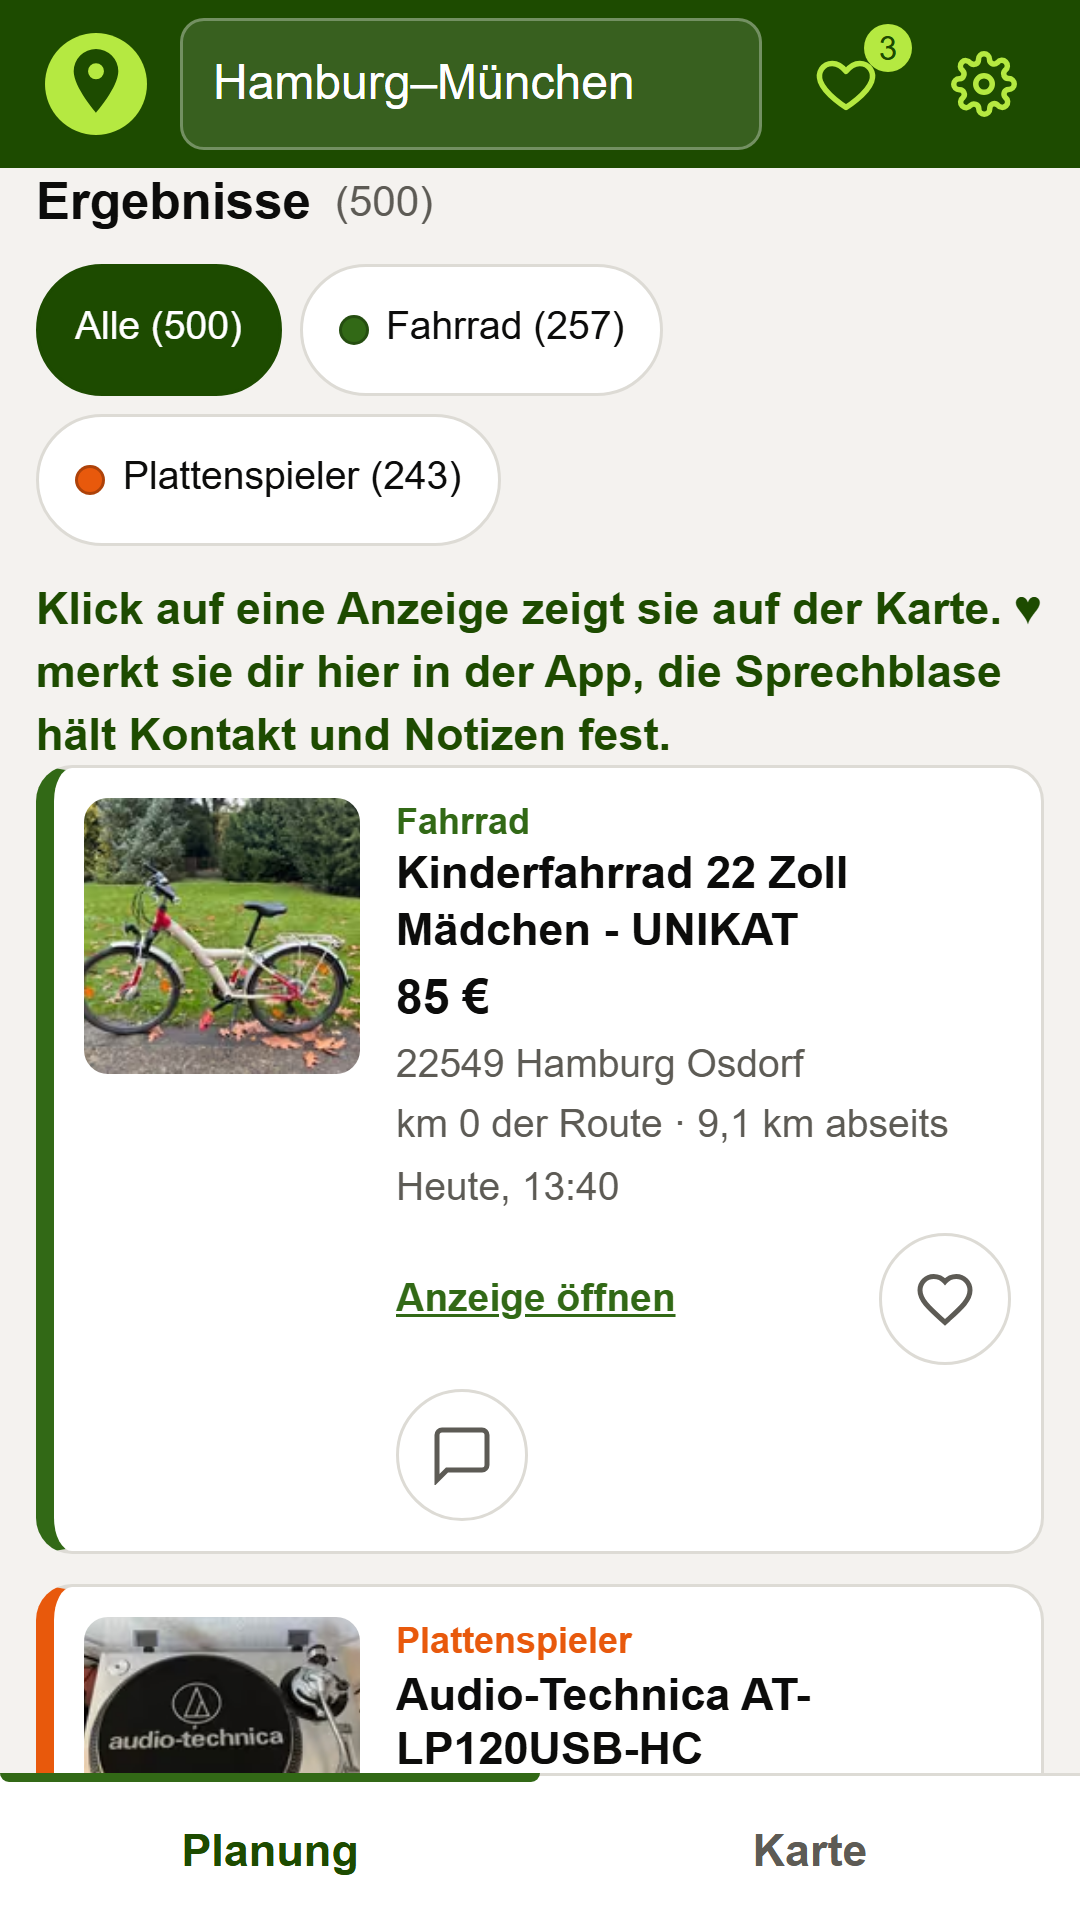
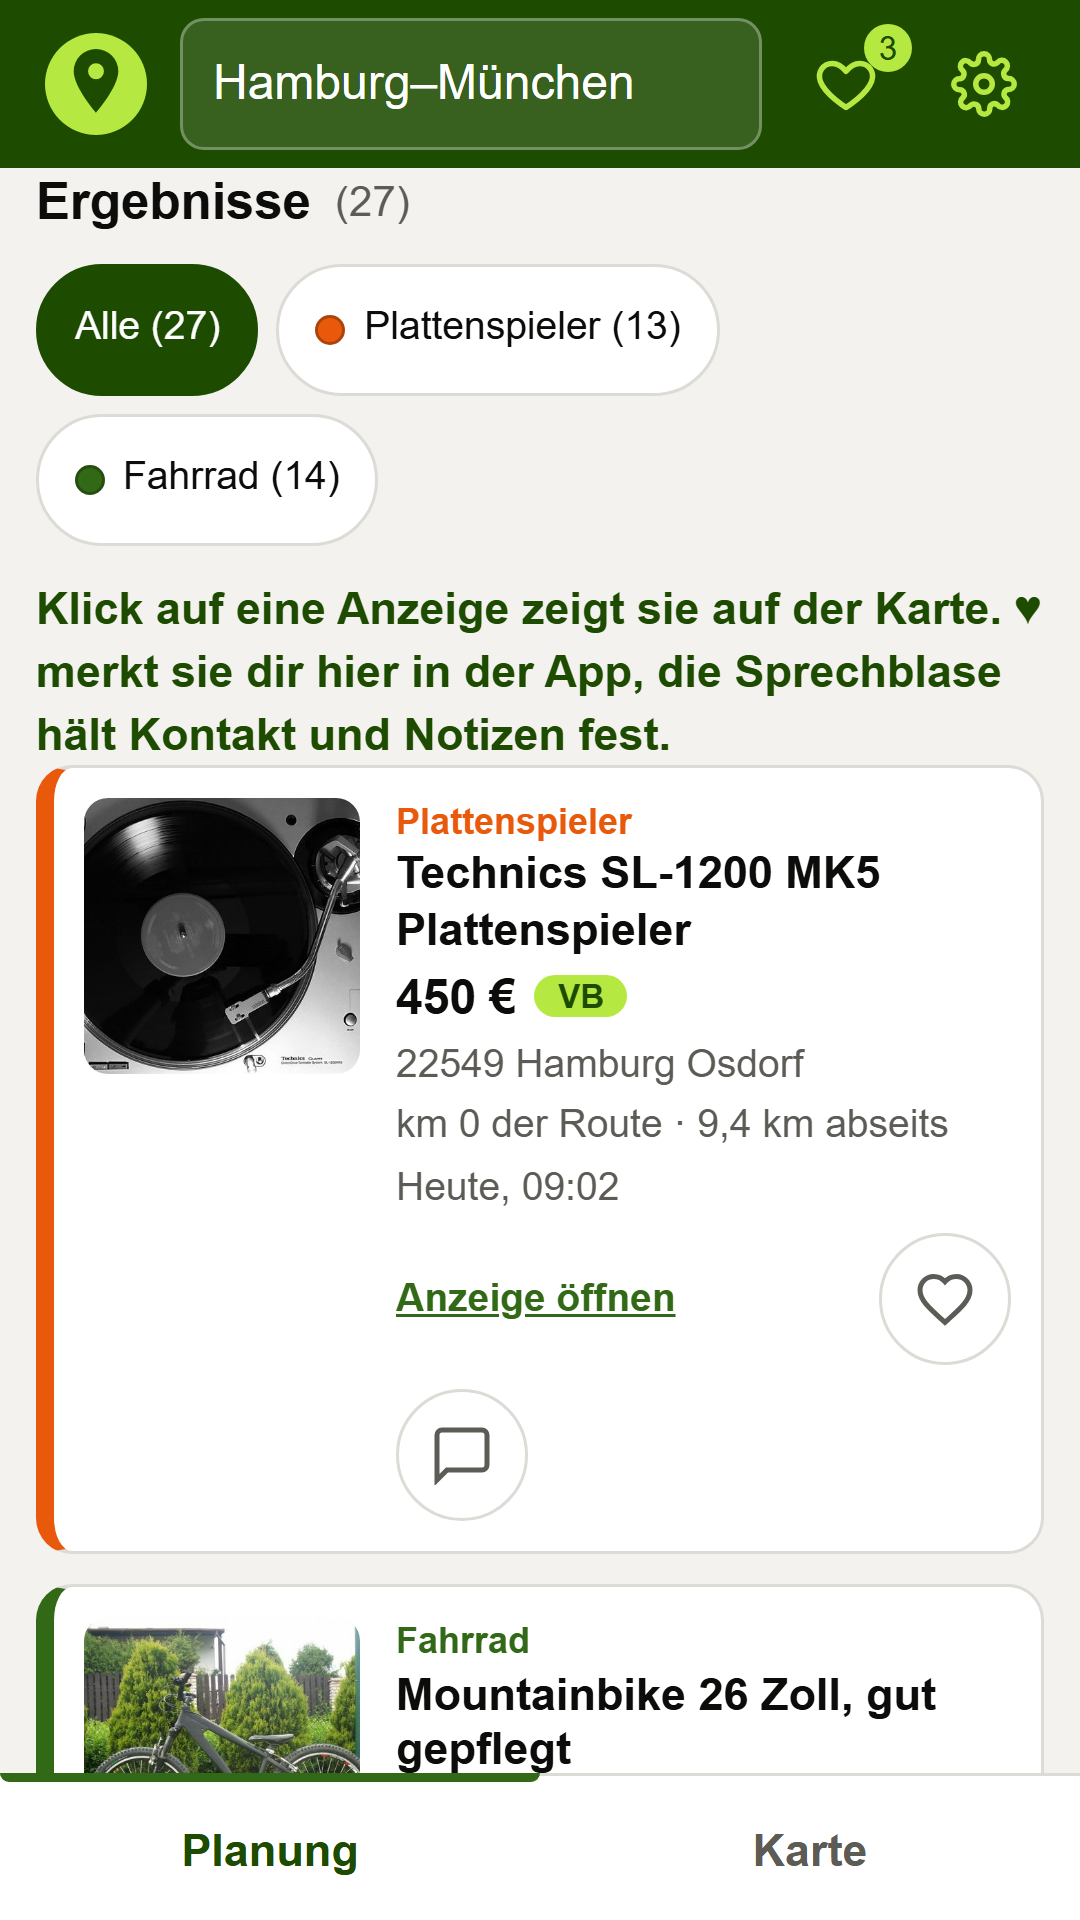
Play screenshots with invented demo listings and CC0/public-domain photos
Claude-Session: https://claude.ai/code/session_01UA8KXeiZEP26akQaoFbeD7

diff --git a/scripts/play-graphics.js b/scripts/play-graphics.js
@@ -1,6 +1,7 @@
 // Builds the Google Play graphics in docs/play/graphics/: 512 icon, 1024x500 feature graphic, 4 phone screenshots (1080x1920).
-// Screenshots come from the desktop server (own temp store, port 3111) with a real Hamburg → München search, cached in
-// .tmp-play/seed.json so reruns don't hit Kleinanzeigen again. Playwright is not a dependency:
+// Screenshots come from the desktop server (own temp store, port 3700) seeded with INVENTED listings
+// (scripts/play-demo-listings.js) and CC0/PD photos (docs/play/demo-images); the route is fetched once (OSRM) and cached
+// in .tmp-play/route.json. Nothing is requested from kleinanzeigen.de. Playwright is not a dependency:
 //   PLAYWRIGHT_DIR=<dir whose node_modules contains playwright> node scripts/play-graphics.js [icon|feature|shots]
 import sharp from 'sharp';
 import { spawn } from 'node:child_process';
@@ -10,6 +11,7 @@ import { existsSync } from 'node:fs';
 import { fileURLToPath } from 'node:url';
 import { join } from 'node:path';
 import { tmpdir } from 'node:os';
+import { demoResults, PICKS, IMAGE_BASE } from './play-demo-listings.js';
 
 const root = join(fileURLToPath(import.meta.url), '..', '..');
 const out = join(root, 'docs', 'play', 'graphics');
@@ -49,10 +51,11 @@ if (what === 'all' || what === 'feature') {
 if (what === 'all' || what === 'shots') await shots();
 
 async function shots() {
-  const PORT = 3111;
+  const PORT = 3700;
   const base = `http://localhost:${PORT}`;
-  const store = join(tmp, 'store.json');
+  const store = join(tmpdir(), 'troedel-play-store.json');
   await rm(store, { force: true });
+  const plzTable = JSON.parse(await readFile(join(root, 'data', 'plz-de.json'), 'utf8'));
   const server = spawn(process.execPath, ['server/index.js'], { cwd: root, env: { ...process.env, PORT: String(PORT), TROEDEL_STORE: store }, stdio: 'ignore' });
   try {
     for (let i = 0; i < 40; i++) {
@@ -65,40 +68,28 @@ async function shots() {
       if (!res.ok) throw new Error(`${method} ${path}: ${json.error}`);
       return json;
     };
-    const seedFile = join(tmp, 'seed.json');
-    let seed;
-    if (existsSync(seedFile)) seed = JSON.parse(await readFile(seedFile, 'utf8'));
+    // waypoints straight from the PLZ table (no geocoder); the route geometry is fetched once (OSRM) and cached
+    const places = [['Hamburg', '20095'], ['Göttingen', '37073'], ['München', '80331']].map(([label, plz]) => ({ label, lat: plzTable.plz[plz][0], lon: plzTable.plz[plz][1] }));
+    const routeFile = join(tmp, 'route.json');
+    let route;
+    if (existsSync(routeFile)) route = JSON.parse(await readFile(routeFile, 'utf8'));
     else {
-      const places = [];
-      for (const q of ['Hamburg', 'Göttingen', 'München']) {
-        const [g] = await call('GET', `/api/geocode?q=${encodeURIComponent(q)}`);
-        places.push({ label: q, lat: g.lat, lon: g.lon });
-        await new Promise((r) => setTimeout(r, 1100));
-      }
-      const route = await call('POST', '/api/route', { waypoints: places });
-      const items = [{ query: 'Fahrrad', minPrice: null, maxPrice: 300 }, { query: 'Plattenspieler', minPrice: null, maxPrice: null }];
-      const { jobId } = await call('POST', '/api/search', { geometry: route.geometry, corridorKm: 15, items, stops: [] });
-      let job;
-      do {
-        await new Promise((r) => setTimeout(r, 3000));
-        job = await call('GET', `/api/search/${jobId}`);
-        console.log(`search ${job.status} ${job.progress?.done}/${job.progress?.total} results=${job.results.length}`);
-      } while (job.status === 'running');
-      seed = { places, route, items, results: job.results };
-      await writeFile(seedFile, JSON.stringify(seed));
+      route = await call('POST', '/api/route', { waypoints: places });
+      await writeFile(routeFile, JSON.stringify(route));
     }
+    // invented listings (no request to kleinanzeigen.de); photos are served from docs/play/demo-images via page.route
+    const results = demoResults(route, plzTable);
+    const items = [{ query: 'Fahrrad', minPrice: null, maxPrice: null }, { query: 'Plattenspieler', minPrice: null, maxPrice: null }];
     const saved = await call('POST', '/api/routes', {
       name: 'Hamburg–München',
-      waypoints: seed.places.map((p, i) => ({ ...p, radiusKm: 0, i })),
-      items: seed.items, corridorKm: 15, searchMode: 'corridor',
-      geometry: seed.route.geometry, distanceKm: seed.route.distanceKm, durationMin: seed.route.durationMin,
-      results: seed.results, searchedAt: new Date().toISOString(),
+      waypoints: places.map((p, i) => ({ ...p, radiusKm: 0, i })),
+      items, corridorKm: 15, searchMode: 'corridor',
+      geometry: route.geometry, distanceKm: route.distanceKm, durationMin: route.durationMin,
+      results, searchedAt: new Date().toISOString(),
     });
-    // a few favourites and contact states, spread along the route
-    const pick = [0.15, 0.35, 0.55, 0.75].map((f) => seed.results[Math.floor(seed.results.length * f)]).filter(Boolean);
+    const pick = PICKS.map(([title]) => results.find((r) => r.title === title));
     for (const ad of pick.slice(0, 3)) await call('PUT', `/api/merkliste/${ad.adid}`, { ad, routeId: saved.id });
-    const states = ['angeschrieben', 'antwort', 'vereinbart', 'abgeholt'];
-    for (const [i, ad] of pick.entries()) await call('PUT', `/api/contacts/${ad.adid}`, { status: states[i] });
+    for (const [i, ad] of pick.entries()) await call('PUT', `/api/contacts/${ad.adid}`, { status: PICKS[i][1] });
     await call('POST', `/api/contacts/${pick[2].adid}/notes`, { text: 'Abholung Samstag 10 Uhr, Bargeld mitbringen' });
     await call('POST', `/api/contacts/${pick[2].adid}/notes`, { text: 'Adresse per Nachricht bekommen' });
 
@@ -107,6 +98,7 @@ async function shots() {
     const shoot = async (name, theme, act) => {
       const ctx = await browser.newContext({ viewport: { width: 360, height: 640 }, deviceScaleFactor: 3, isMobile: true, hasTouch: true, locale: 'de-DE' });
       await ctx.addInitScript(([t, id]) => { localStorage.setItem('troedeltour.theme', t); localStorage.setItem('troedeltour.lastRoute', id); }, [theme, saved.id]);
+      await ctx.route(`${IMAGE_BASE}**`, (r) => r.fulfill({ path: join(root, 'docs', 'play', 'demo-images', new URL(r.request().url()).pathname.slice(1)), contentType: 'image/jpeg' }));
       const page = await ctx.newPage();
       await page.goto(base);
       await page.waitForSelector('body[data-ready="1"]');

diff --git a/scripts/play-demo-listings.js b/scripts/play-demo-listings.js
@@ -1,0 +1,68 @@
+// Invented demo listings for the Play Store screenshots (scripts/play-graphics.js). None of these ads exists: titles,
+// prices and adids are made up, the PLZ/city pairs are real places along Hamburg → Göttingen → München so they geocode
+// from data/plz-de.json. Photos are CC0/public-domain files from Wikimedia Commons, see docs/play/demo-images/CREDITS.md.
+import { distanceToRoute, cumulativeKm } from '../core/corridor.js';
+
+export const IMAGE_BASE = 'https://demo-img.invalid/'; // intercepted by Playwright, never requested for real
+export const AD_URL = 'https://www.kleinanzeigen.de/';
+
+// [query, title, priceText, plz, city, date, image]
+const RAW = [
+  ['Fahrrad', 'Mountainbike 26 Zoll, gut gepflegt', '120 € VB', '22765', 'Hamburg Altona', 'Heute, 10:15', 'rad-2'],
+  ['Plattenspieler', 'Technics SL-1200 MK5 Plattenspieler', '450 € VB', '22549', 'Hamburg Osdorf', 'Heute, 09:02', 'platte-1'],
+  ['Fahrrad', 'Herren Mountainbike mit Federgabel', '95 €', '21073', 'Hamburg Harburg', 'Gestern, 18:40', 'rad-1'],
+  ['Plattenspieler', 'Kofferplattenspieler Retro mit Lautsprechern', '60 € VB', '29614', 'Soltau', 'Heute, 08:30', 'platte-2'],
+  ['Fahrrad', 'Rennrad Carbonrahmen 56 cm, Shimano', '780 € VB', '29683', 'Bad Fallingbostel', 'Gestern, 20:11', 'rad-3'],
+  ['Plattenspieler', 'Plattenspieler in Kupfer, neuwertig', '85 €', '29664', 'Walsrode', '24.10.2026', 'platte-3'],
+  ['Fahrrad', 'Vintage Rennrad Stahlrahmen, 10 Gänge', '140 € VB', '30853', 'Langenhagen', 'Heute, 11:48', 'rad-5'],
+  ['Plattenspieler', 'Plattenspieler weiß, Riemenantrieb', '70 € VB', '30159', 'Hannover', 'Gestern, 15:22', 'platte-4'],
+  ['Fahrrad', 'Jugend-Mountainbike 24 Zoll', '45 € VB', '37154', 'Northeim', '23.10.2026', 'rad-2'],
+  ['Plattenspieler', 'Plattenspieler mit Radio, defekt', 'Zu verschenken', '37191', 'Katlenburg-Lindau', 'Heute, 07:55', 'platte-2'],
+  ['Plattenspieler', 'Technics Plattenspieler mit Ortofon-Nadel', '380 € VB', '37081', 'Göttingen', 'Heute, 10:40', 'platte-1'],
+  ['Fahrrad', 'Mountainbike Hardtail, Gabel gelb', '110 €', '37073', 'Göttingen', 'Gestern, 12:05', 'rad-1'],
+  ['Plattenspieler', 'Plattenspieler weiß, Top Zustand', '120 € VB', '37124', 'Rosdorf', '22.10.2026', 'platte-4'],
+  ['Fahrrad', 'Rennrad Rahmenhöhe 54, Shimano-Gruppe', '520 €', '34233', 'Fuldatal', 'Heute, 09:30', 'rad-3'],
+  ['Fahrrad', 'Vintage Rennrad restauriert', '220 € VB', '34117', 'Kassel', 'Heute, 12:20', 'rad-5'],
+  ['Plattenspieler', 'Kofferplattenspieler aus den 60ern', '55 € VB', '34117', 'Kassel', 'Gestern, 19:48', 'platte-2'],
+  ['Fahrrad', 'Mountainbike Stahlrahmen, Federgabel', '80 € VB', '34212', 'Melsungen', '24.10.2026', 'rad-1'],
+  ['Plattenspieler', 'Plattenspieler Kupfer-Optik, Top', '95 €', '36251', 'Bad Hersfeld', 'Heute, 08:10', 'platte-3'],
+  ['Fahrrad', 'Dirtbike 26 Zoll, grau', '110 €', '36037', 'Fulda', 'Gestern, 16:35', 'rad-2'],
+  ['Plattenspieler', 'Technics SL-1200 Direct Drive', '420 € VB', '36088', 'Hünfeld', 'Heute, 11:05', 'platte-1'],
+  ['Fahrrad', 'Rennrad Carbon, kaum gefahren', '950 € VB', '97688', 'Bad Kissingen', '23.10.2026', 'rad-3'],
+  ['Plattenspieler', 'Plattenspieler weiß mit Bluetooth', '65 €', '97070', 'Würzburg', 'Heute, 09:45', 'platte-4'],
+  ['Fahrrad', 'Retro Rennrad 28 Zoll', '175 €', '97209', 'Veitshöchheim', 'Gestern, 14:12', 'rad-5'],
+  ['Plattenspieler', 'Plattenspieler im Koffer, Retro', '40 € VB', '85051', 'Ingolstadt', '22.10.2026', 'platte-2'],
+  ['Fahrrad', 'Mountainbike Herren, Shimano Schaltung', '130 € VB', '81369', 'München Sendling', 'Heute, 10:58', 'rad-1'],
+  ['Plattenspieler', 'Plattenspieler in Kupfer, wie neu', '110 €', '80331', 'München', 'Gestern, 21:03', 'platte-3'],
+  ['Fahrrad', 'Mountainbike grau, Jugendrad', '70 € VB', '85356', 'Freising', '24.10.2026', 'rad-2'],
+];
+
+export const DEMO_IMAGES = ['rad-1', 'rad-2', 'rad-3', 'rad-5', 'platte-1', 'platte-2', 'platte-3', 'platte-4'];
+
+/** Results in the shape the search job returns, sorted along the route. */
+export function demoResults(route, plzTable) {
+  const coords = route.geometry.coordinates;
+  const cum = cumulativeKm(coords);
+  return RAW.map(([query, title, priceText, plz, city, date, img], i) => {
+    const pos = plzTable.plz[plz];
+    if (!pos) throw new Error(`PLZ ${plz} not in data/plz-de.json`);
+    const { distKm, kmAlong } = distanceToRoute(pos[0], pos[1], coords, cum);
+    if (distKm > 15) throw new Error(`${plz} ${city} is ${distKm.toFixed(1)} km off the route`);
+    const m = priceText.match(/^(\d+)/);
+    return {
+      adid: String(9000000001 + i), title, priceText, price: m ? Number(m[1]) : 0, vb: /VB$/.test(priceText),
+      url: AD_URL, image: `${IMAGE_BASE}${img}.jpg`, plz, city, date, query,
+      lat: pos[0], lon: pos[1],
+      distanceToRouteKm: Math.round(distKm * 10) / 10, kmAlongRoute: Math.round(kmAlong * 10) / 10,
+      nearStop: null, distanceToStopKm: null,
+    };
+  }).sort((a, b) => a.kmAlongRoute - b.kmAlongRoute);
+}
+
+// scene picks: [title, status] — favourites are the first three
+export const PICKS = [
+  ['Plattenspieler weiß, Riemenantrieb', 'angeschrieben'],
+  ['Vintage Rennrad restauriert', 'antwort'],
+  ['Technics Plattenspieler mit Ortofon-Nadel', 'vereinbart'],
+  ['Plattenspieler Kupfer-Optik, Top', 'abgeholt'],
+];

diff --git a/docs/play/demo-images/CREDITS.md b/docs/play/demo-images/CREDITS.md
@@ -1,0 +1,16 @@
+# Demo images for the Play Store screenshots
+
+Thumbnails (400×400, centre-cropped) of Wikimedia Commons files that are marked **CC0** or **Public domain** there
+(license checked via the Commons API, `extmetadata.LicenseShortName`). Used only by `scripts/play-graphics.js`; no
+photo of a real Kleinanzeigen listing is included. All 8 images are real photos; no illustrations were needed.
+
+| File | Commons page | Author | License |
+|---|---|---|---|
+| rad-1.jpg | https://commons.wikimedia.org/wiki/File:Bike_057.jpg | DIZAS | Public domain |
+| rad-2.jpg | https://commons.wikimedia.org/wiki/File:Bike-Arkus.jpg | Kasahacker | Public domain |
+| rad-3.jpg | https://commons.wikimedia.org/wiki/File:Koersfiets_Scott,_Annemiek_van_Vleuten,_2020_-_zijaanzicht_links_(R0629_-_collectie_KOERS._Museum_van_de_Wielersport).jpg | Scott USA / Shimano / Tacx / Pirelli / Syncros (KOERS. Museum van de Wielersport) | CC0 |
+| rad-5.jpg | https://commons.wikimedia.org/wiki/File:Old_Italian_racing_bicycle,_Villard-Reculas,_2026.jpg | DimiTalen | CC0 |
+| platte-1.jpg | https://commons.wikimedia.org/wiki/File:Technics_SL-1200MK5_Direct_Drive_Turntable_System_with_Ortofon_cartridge_(2017-01-21_22.33.27_piqsels.com_en).jpg | Unknown author (piqsels.com) | CC0 |
+| platte-2.jpg | https://commons.wikimedia.org/wiki/File:Record_Player_33RPM.jpg | The People's Internet | CC0 |
+| platte-3.jpg | https://commons.wikimedia.org/wiki/File:TONE_Turnable_brown.jpg | WeKn0What! | CC0 |
+| platte-4.jpg | https://commons.wikimedia.org/wiki/File:TONE_Turnable_white.jpg | WeKn0What! | CC0 |
